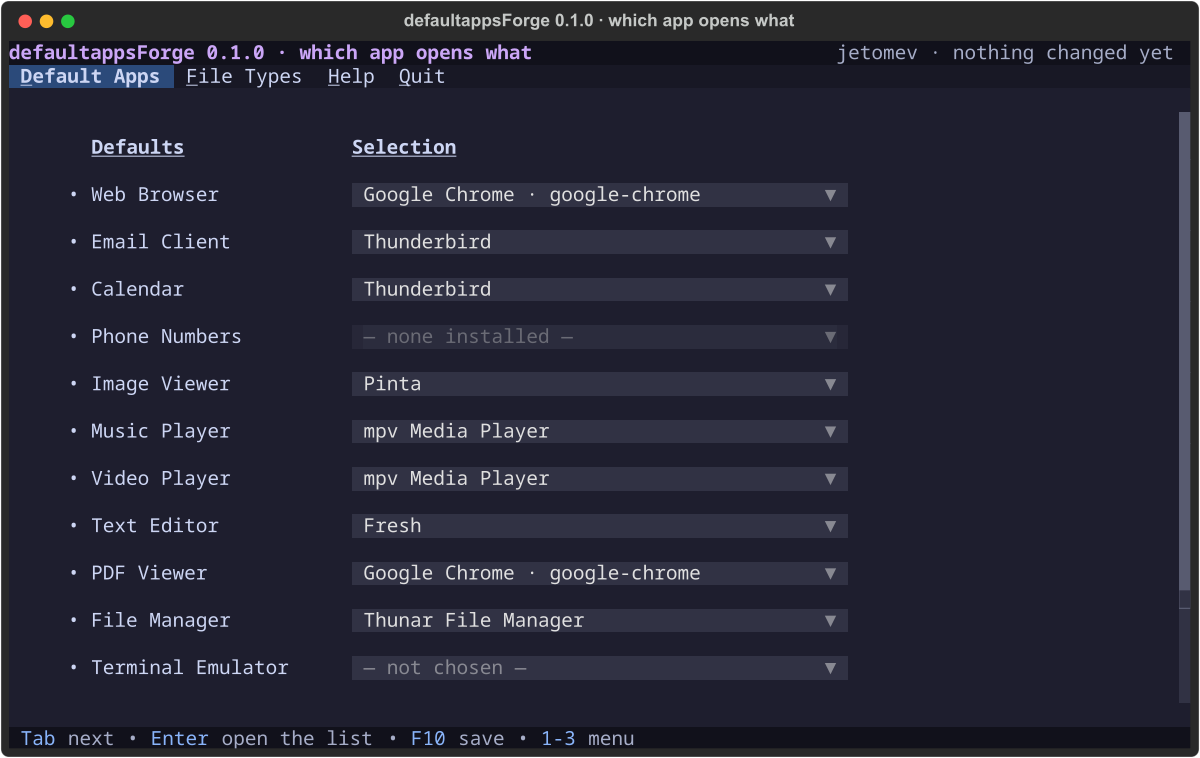
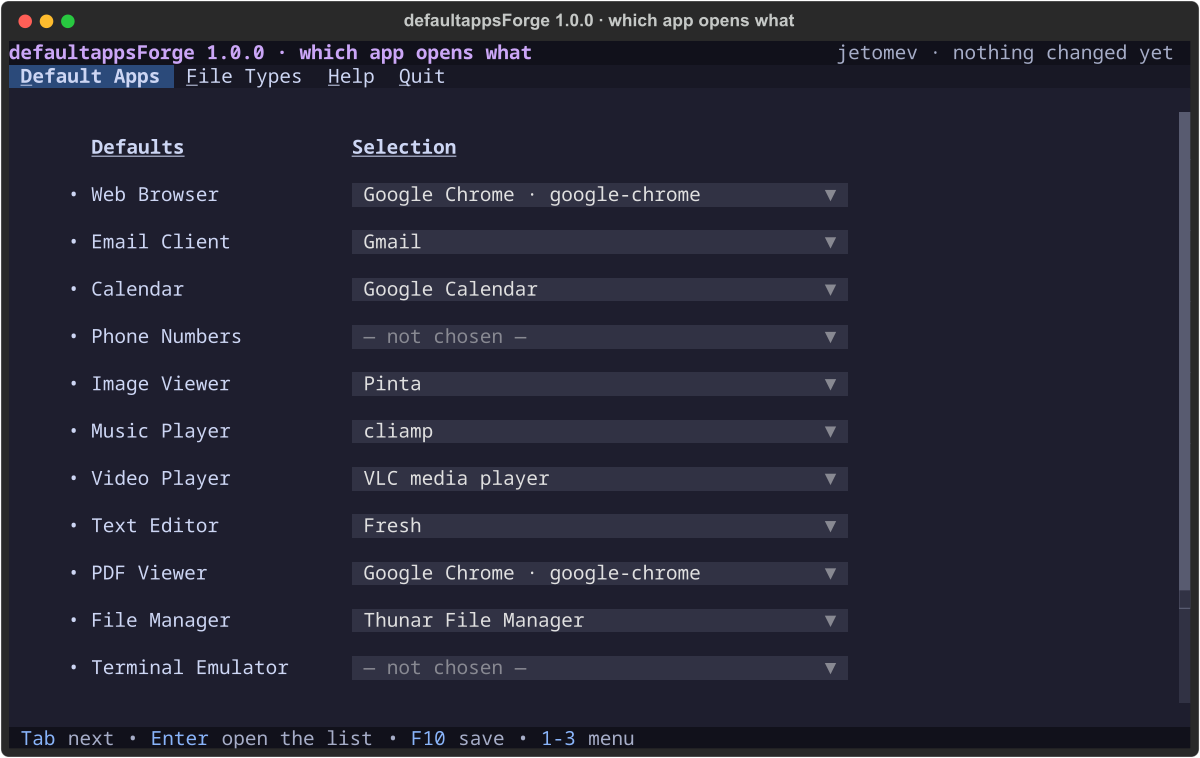
docs(defaultappsforge): README + version bump for v1.0.0
The README in full (what it does, install, keys, roadmap, changelog), new
screenshots from the running app, PACKAGING's AUR section, the test matrix
(Javier's run passed 2026-10-28). 47 tests, 0 warnings (19 at 0.1.0).

diff --git a/defaultappsforge/defaultappsforge/__init__.py b/defaultappsforge/defaultappsforge/__init__.py
@@ -1,3 +1,3 @@
 """defaultappsForge — which app opens what (a Forge Suite app)."""
 
-__version__ = "0.1.0"
+__version__ = "1.0.0"

diff --git a/defaultappsforge/README.md b/defaultappsforge/README.md
@@ -3,21 +3,97 @@
 </p>
 
 <p align="center">
-  <img alt="Status: in design" src="https://img.shields.io/badge/status-in%20design-f9e2af?style=flat-square&labelColor=313244">
+  <img alt="Status: stable" src="https://img.shields.io/badge/status-stable-a6e3a1?style=flat-square&labelColor=313244">
+  <img alt="Version: 1.0.0" src="https://img.shields.io/badge/version-1.0.0-cba6f7?style=flat-square&labelColor=313244">
+  <a href="https://aur.archlinux.org/packages/defaultappsforge"><img alt="AUR" src="https://img.shields.io/aur/version/defaultappsforge?style=flat-square&labelColor=313244&color=89b4fa&label=AUR"></a>
   <img alt="License: GPLv3" src="https://img.shields.io/badge/license-GPLv3-a6e3a1?style=flat-square&labelColor=313244">
   <img alt="Built by a human and an AI" src="https://img.shields.io/badge/built%20by-human%20%2B%20AI-f9e2af?style=flat-square&labelColor=313244">
 </p>
 
 # defaultappsForge
 
-**Which app opens what.** Links, folders, text, PDFs, pictures, music, video, documents and archives: see what opens each today (your choice, or just the system's guess), spot old choices for apps that are gone, and pick. A terminal app, and the Default apps page of hypeForge Settings.
+**Which app opens what.** Links, email, calendar invites, folders, text, PDFs, pictures, music, video, documents and archives: see what opens each one today (your choice, or just the system's guess), spot old choices for apps that are gone, and pick. A terminal app, and the **Default apps** page of [hypeForge](../hypeforge/) Settings.
 
 > 🖥 **Where it runs:** **any Linux distribution** · **any desktop, or none**: it writes the standard `~/.config/mimeapps.list` that Sway, KDE, GNOME and every app read · **any terminal, even a plain text console**.
 
-## Status
+![Default Apps](docs/images/default-apps.png)
 
-**In design, 2026-10-09.** Tracking issue: [#19](https://github.com/jetomev/forge-suite/issues/19). The design: [docs/design/](docs/design/) · decisions: [docs/DECISIONS.md](docs/DECISIONS.md) · the list: [TODO.md](TODO.md).
+## What it does
+
+**Default Apps**: one drop-down per job, fourteen of them: Web Browser, Email Client, Calendar, Phone Numbers, Image Viewer, Music Player, Video Player, Text Editor, PDF Viewer, File Manager, Terminal Emulator, Archive Manager, Map and Office Suite. Each list shows the apps on this computer that say they can do that job, and what does it today.
+
+- **Web apps as real choices**: Gmail and Outlook for email links, Google Calendar and Outlook's calendar for invites (and the desktop's calendar, where a click on a day opens that day), Google Maps and OpenStreetMap for addresses, Google Voice for phone numbers. Picking one makes a small launcher that opens the site in its own window of Chrome, Chromium, Brave, Edge or Vivaldi (or a tab of any other browser). A web app takes links, never files.
+- **Any app…** at the end of every list: every installed app, in a list you can type to filter, for the app that can do the job but doesn't say so.
+- **Find more…** opens [nogForge](../nogforge/) already searching for that kind of app, to install another one.
+- **The terminal** follows the `xdg-terminal-exec` standard; saving installs it through nog when it's missing.
+
+**File Types**: which app opens each kind of file, two tables side by side. Tick file types on the left, pick an app, and **>>** gives them to it; **<<** takes them back.
+
+![File Types](docs/images/file-types.png)
+
+**Save (F10)** shows every change before anything is written, keeps a backup of the old file (the last 20, in `~/.config/defaultappsforge/backups/`), and applies at once: the next file or link you open uses it. Old choices for apps that are gone are tidied away. Quitting with something unsaved asks first.
+
+![Save](docs/images/save.png)
+
+**YouTube Music and Google Docs** are web apps too, but they can't open a file on your computer, so they're never anyone's default. They go in your app menu instead, with one command:
+
+```
+webapp-open --add youtube-music google-docs
+```
+
+## Install
+
+From the AUR (KognogOS: through nog):
+
+```
+nog install defaultappsforge
+```
+
+Then `defaultappsforge`, or **defaultappsForge** in your app menu. On KognogOS it's also the **Default apps** page of hypeForge Settings.
+
+```
+defaultappsforge             open defaultappsForge
+defaultappsforge --version   print the version
+defaultappsforge --help      print this
+```
+
+Inside: **1–3** or **Ctrl** + the underlined letter move between pages; **Tab** moves between lists; **Enter** opens one; **F10** saves; **F1** opens the manual; **?** shows every key; **Q** quits.
+
+**Needs:** Python, Textual, Rich, [forgekit](../forgekit/) 0.10.0 or newer, and nog for installing a missing app. `xdg-utils` (to read the system's guess and the default browser) and `xdg-terminal-exec` are optional. The full list, measured from the code: [docs/PACKAGING.md](docs/PACKAGING.md).
+
+## Roadmap
+
+- [ ] More web apps where a website can really do the job
+- [x] **1.0.0** — web apps, Any app…, Find more…, App Library web apps, `--help` and `--version`, the launcher entry
+- [x] **0.1.0** — Default Apps and File Types, the review before saving, backups, the terminal through xdg-terminal-exec, the Default apps page in hypeForge Settings
+
+## Changelog
+
+### v1.0.0 — October 28, 2026 · every job's choices (D-5)
+
+- **Web apps as choices** for email, calendar, maps and phone numbers (Javier: *"I cannot select among the apps, for email or calendar, chrome (gmail.com apps) which should be available"*; his plan answer: *"all look good"*).
+- **Any app…** and **Find more…** at the end of every list.
+- **App Library web apps**: `webapp-open --add youtube-music google-docs` (and `--remove`).
+- **`--help` and `--version`** answer without opening the app (before, any word opened it); a word it doesn't know is refused.
+- **A launcher entry**, so it shows in every app menu (it opens in your terminal).
+- Javier's run, 28 October: he set Gmail and Google Calendar himself and both work; Find more… and Any app… passed (*"NICE!!!"*). Tests: 47 (19 at 0.1.0), no warnings.
+
+### v0.1.0 — October 9, 2026 · the first version, inside hypeForge Settings
+
+- Default Apps (fourteen drop-downs) and File Types (two tables, >> and <<), a review before saving, backups, old choices for gone apps tidied, the terminal through xdg-terminal-exec, the manual. The design was approved before any code: *"WOW APP!!!!"* ([docs/design/](docs/design/)). Not released on its own.
+
+*Every decision, newest first: [docs/DECISIONS.md](docs/DECISIONS.md) · the list: [TODO.md](TODO.md) · the tracking issue: [#19](https://github.com/jetomev/forge-suite/issues/19).*
+
+## How this project is built
+
+A human and AI collaboration: the screens were drawn and approved by Javier before any code, every change is tested (47 tests, on a copy of the settings file, so no test touches your choices), and the test matrices are in [testing/](testing/), published on purpose.
+
+## Authors
+
+**Javier ([@jetomev](https://github.com/jetomev))**: idea, direction, testing
+
+**Claude (Anthropic)**: co-developer, architecture, implementation
 
 ## License & credits
 
-GPLv3. Built by Javier and Claude, part of the [Forge Suite](../), on [forgekit](../forgekit/). It follows the freedesktop.org standards for default applications and file types; thanks to everyone who keeps them.
+GPLv3. Part of the [Forge Suite](../), on [forgekit](../forgekit/). It follows the freedesktop.org standards for default applications and file types; thanks to everyone who keeps them.

diff --git a/defaultappsforge/testing/20261028 - Test Matrix for defaultappsForge v1-0-0.md b/defaultappsforge/testing/20261028 - Test Matrix for defaultappsForge v1-0-0.md
@@ -1,0 +1,28 @@
+# Test Matrix — defaultappsForge v1.0.0 (every job's choices, D-5)
+
+*Written 2026-10-28. §1 is Claude's; §2 is Javier's run in hypeForge Settings → Default apps on this desktop (done the same day, one step at a time); §3 is Javier's install of the locally built package, the last step before the AUR.*
+
+## §1 · Claude — tests and checks
+
+| # | Check | Expected | Result | Notes |
+|---|---|---|---|---|
+| 1.1 | `python -W always -m unittest discover -s tests` | green, no warnings | **PASS** | 47 (44 after D-5, 19 at 0.1.0; 3 new for the command line, seen failing on the old code), 0 warnings |
+| 1.2 | `defaultappsforge --help` / `--version` / `--nope` | usage and exit 0 / `defaultappsForge 1.0.0` / refused, exit 2 — the app never opens | **PASS** | before 1.0.0, `--help` opened the whole app (found preparing the release) |
+| 1.3 | `desktop-file-validate defaultappsforge.desktop` | clean | **PASS** | |
+| 1.4 | README screenshots from the running app (`scripts/make-screenshots.py`, a copy of the settings file) | the three pages at 1.0.0, Gmail and Google Calendar showing | **PASS** | `docs/images/` |
+
+## §2 · Javier, this desktop — Settings → Default apps (2026-10-28)
+
+| # | Step | Expected | Result | Notes |
+|---|---|---|---|---|
+| 2.1 | Email Client → Gmail, Calendar → Google Calendar, save | both saved; email links and invites open them | **PASS** | his own picks, 17:57 (`mimeapps.list`) |
+| 2.2 | On the bar, the calendar pop-up → click a day | Google Calendar opens on that day | **PASS** | "yes it opened on the 30th" |
+| 2.3 | Music Player → **Find more…** | nogForge opens already searching for music players; the setting unchanged | **PASS** | "it opened searching for music players..... NICE!!!" |
+| 2.4 | Music Player → **Any app…** → type `spo` → Esc | every app listed, the list shrinks as he types, Esc changes nothing | **PASS** | "the list showed and shrank when I typed" |
+
+## §3 · Javier — the locally built package (before the AUR)
+
+| # | Step | Expected | Result | Notes |
+|---|---|---|---|---|
+| 3.1 | `nog install ./defaultappsforge-1.0.0-1-any.pkg.tar.zst` | installs; `defaultappsforge --version` says 1.0.0 | | |
+| 3.2 | `defaultappsforge` in a terminal | the app opens on Default Apps with his choices; Q quits | | |

diff --git a/defaultappsforge/docs/PACKAGING.md b/defaultappsforge/docs/PACKAGING.md
@@ -23,6 +23,17 @@ aren't listed.*
 | xdg-utils | reading and setting the defaults (xdg-mime); the default browser for web apps (xdg-settings) | (program xdg-mime) |
 | xdg-terminal-exec | the default terminal entry, where installed (not on this desktop) | (program xdg-terminal-exec) |
 
+## Check only (`checkdepends`)
+
+| Package | What uses it | Module / program |
+|---|---|---|
+| desktop-file-utils | `check()` validates the launcher entry `defaultappsforge.desktop` (1.0.0) | (program desktop-file-validate) |
+
 ## The AUR recipe
 
-No AUR package yet (0.1.0, inside hypeForge Settings).
+`defaultappsforge` from 1.0.0 (2026-10-28), in `~/Programs/aur-defaultappsforge/`: the source is the signed
+release file from `jetomev/forge-suite` (tag `defaultappsforge-vX.Y.Z`, built by `scripts/release-app.sh`).
+It installs `defaultappsforge/` and `main.py` under `/usr/lib/defaultappsforge/`, the `defaultappsforge`
+launcher and a `webapp-open` link in `/usr/bin` (the App Library's web apps and the launchers a save
+writes), the launcher entry, the README and the license. `check()` runs the tests and validates the
+launcher entry.

diff --git a/defaultappsforge/TODO.md b/defaultappsforge/TODO.md
@@ -34,3 +34,5 @@
 
 ## Phase 2 · Release
 - [ ] Javier's run → 1.0.0, GitHub, AUR after his local test; README row, kognogos.org, Vault
+  - 2026-10-28: his run passed; 1.0.0 prepared — `--help` / `--version` (F-1: `--help` opened the whole app; 3 tests, seen failing), the launcher entry `defaultappsforge.desktop`, README written in full with new screenshots, PACKAGING's AUR section, matrix `testing/20261028 - Test Matrix for defaultappsForge v1-0-0.md`; 47 tests
+  - found on the way: hypeForge's floating-window entries for defaultappsForge, nightForge and workspaceForge are in `~/.config/hypeforge/applications/` but never linked into `~/.local/share/applications/` (the others are) — a hypeForge item
